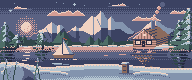
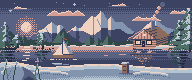
Scenes: rainy night reads clearly, uneven hand-placed edges instead of modulo patterns

diff --git a/art/scene_build.py b/art/scene_build.py
@@ -66,7 +66,7 @@ SEASONS = {
         'star': ('yoru-1', 'yuki-2', 'yoru-0'), 'starb': ('yoru-1', 'yuki-2', 'yoru-0'),
         'moon': ('yoru-0', 'yuki-1', 'yuki-3'), 'moon_s': ('yoru-1', 'yuki-2', 'yoru-0'),
         'cloud_l': ('yoru-0', 'yuki-1', 'yuki-3'), 'cloud': ('yoru-1', 'yuki-2', 'yoru-0'), 'cloud_s': ('yoru-2', 'yuki-3', 'yoru-1'),
-        'w_far': ('yoru-1', 'yuki-2', 'yoru-0'), 'w_mid': ('yoru-1', 'yuki-3', 'yoru-0'), 'w_near': ('yoru-2', 'yoru-0', 'yoru-1'), 'glint': ('yoru-0', 'yuki-1', 'yuki-3'),
+        'w_far': ('yoru-0', 'yuki-2', 'yoru-0'), 'w_mid': ('yoru-1', 'yuki-3', 'yoru-0'), 'rock_s': ('yoru-2', 'yoru-0', 'yoru-1'), 'w_near': ('yoru-2', 'yoru-0', 'yoru-1'), 'glint': ('yoru-0', 'yuki-1', 'yuki-3'),
         'sn_hi': ('matsu-0', 'matsu-0', 'matsu-0'),
         'hill': ('matsu-2', 'matsu-1', 'matsu-2'), 'hill_l': ('matsu-1', 'matsu-0', 'matsu-1'),
         'br': ('matsu-1', 'matsu-0', 'matsu-1'), 'br_s': ('matsu-2', 'matsu-1', 'matsu-2'), 'br_d': ('yoru-2', 'matsu-2', 'yoru-2')},
@@ -218,12 +218,18 @@ def reflect(A, L, base, shear=1):
             if 0 <= sx < W and ry < BANK(sx) and is_(A, sx, ry, 'w_far', 'w_mid', 'w_near', 'glint'): put(A, sx, ry, REFL.get(inv[v], 'w_near'))
 
 # ---------------------------------------------------------------- far shore: snow spit, house, pines
+def runs(seed, lo, hi):
+    """Uneven run lengths (lo..hi) as a per-column index, so edges step where a hand would step instead of every n pixels."""
+    g = random.Random(seed); out = []; k = 0
+    while len(out) < W + hi: out += [k] * g.randint(lo, hi); k += 1
+    return out
 def shore(A):
+    step, speck = runs(31, 4, 13), runs(32, 2, 9)
     for x in range(W):
-        lip = 45 + (1 if (x // 9) % 2 else 0) - (1 if 120 <= x <= 180 else 0)
+        lip = 45 + (1 if step[x] % 2 else 0) - (1 if 120 <= x <= 180 else 0)
         for y in range(lip, 47):
-            put(A, x, y, 'sn_hi' if y == lip else 'sn_l' if y == 46 or x % 7 else 'sn_m')
-        if x % 5 == 2: put(A, x, 46, 'sn_m')
+            put(A, x, y, 'sn_hi' if y == lip else 'sn_l' if y == 46 or speck[x] % 3 else 'sn_m')
+        if speck[x] % 4 == 1 and speck[x] != speck[x - 1]: put(A, x, 46, 'sn_m')
 
 def spit(A):
     for y in range(46, 50):
@@ -332,14 +338,14 @@ def boat_rings(A, cx, wl):
 
 # ---------------------------------------------------------------- near bank
 def bank(A):
-    g = random.Random(13)
+    g = random.Random(13); crest = runs(33, 2, 6)
     for x in range(W):
         b = BANK(x)
         for y in range(b, H):
             d = y - b
             r = 'sn_l' if d < 5 else 'sn_m' if d < 12 or (d < 14 and (x + y) % 2 == 0) else 'sn_l'
             put(A, x, y, r)
-        put(A, x, b, 'sn_hi'); put(A, x, b + 1, 'sn_hi' if x % 3 else 'sn_l')
+        put(A, x, b, 'sn_hi'); put(A, x, b + 1, 'sn_hi' if crest[x] % 3 else 'sn_l')
     # drifts: 1px highlight on the lit crest, a shaded lee below it
     for cx, cy, w in ((50, 73, 34), (150, 74, 34)):
         for x in range(cx - w // 2, cx + w // 2 + 1):
@@ -390,9 +396,10 @@ def branch(A):
             put(A, x + dx, y + dy, 'br' if k < 3 else 'br_s'); put(A, x + dx + 1, y + dy, 'br_s'); put(A, x + dx + 2, y + dy + 1, 'br_d')
             if k < 2: put(A, x + dx + 2, y + dy, 'br_s')
         for dx, dy in ((2, 1), (3, 2), (4, 3)): put(A, x + dx, y + dy, 'br_s')
-    for x in range(150, 191): 
-        if x % 5 != 3: put(A, x, ys(x) - 1, 'pn_hi' if x % 2 else 'pn_l')
-        if x % 4 == 0: put(A, x, ys(x) - 2, 'pn_l')
+    gap, clump = runs(34, 1, 4), runs(35, 3, 8)
+    for x in range(150, 191):
+        if gap[x] % 4: put(A, x, ys(x) - 1, 'pn_hi' if gap[x] % 2 else 'pn_l')
+        if clump[x] % 3 == 0: put(A, x, ys(x) - 2, 'pn_l')
 
 # ---------------------------------------------------------------- compose
 def build(season='winter'):
